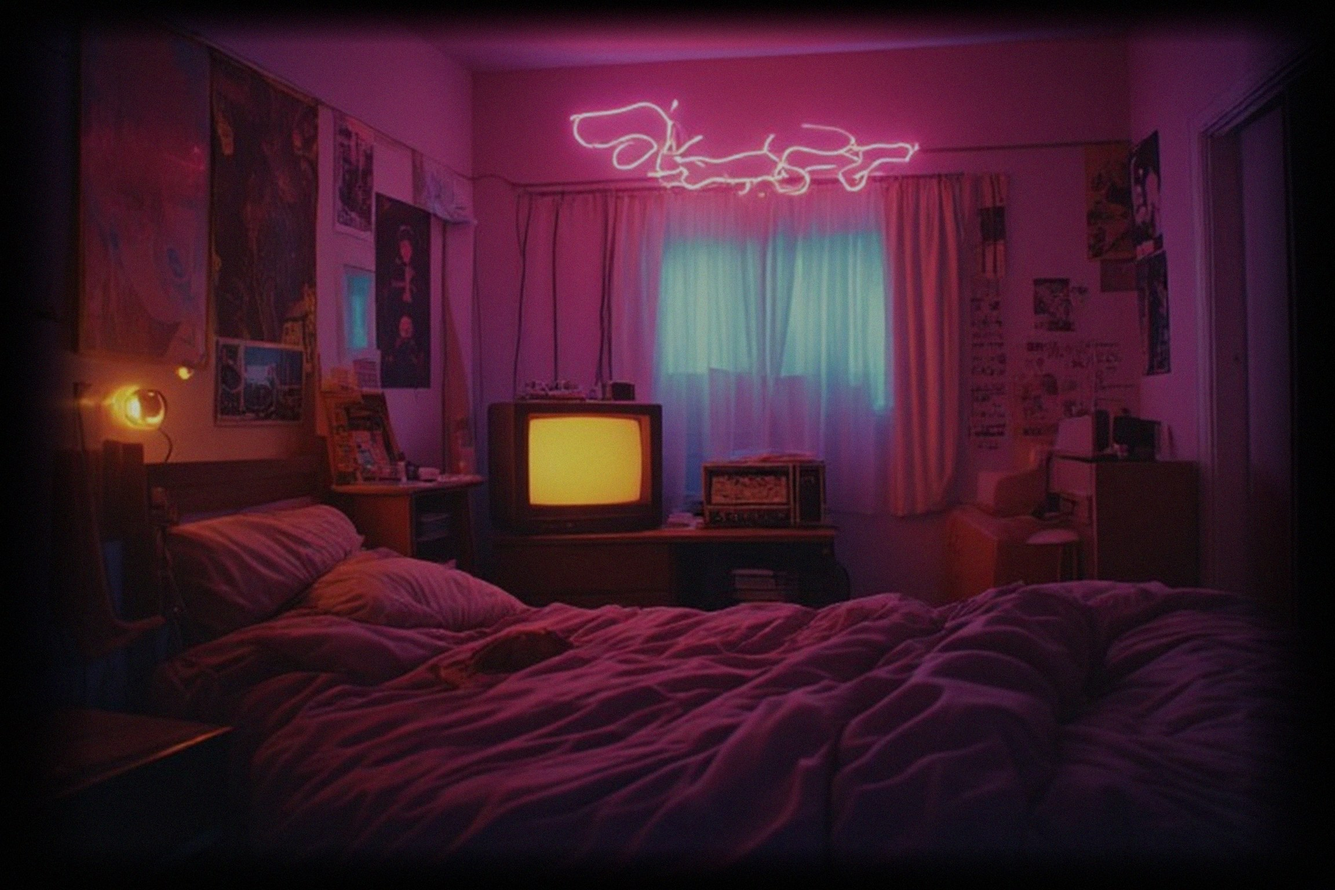
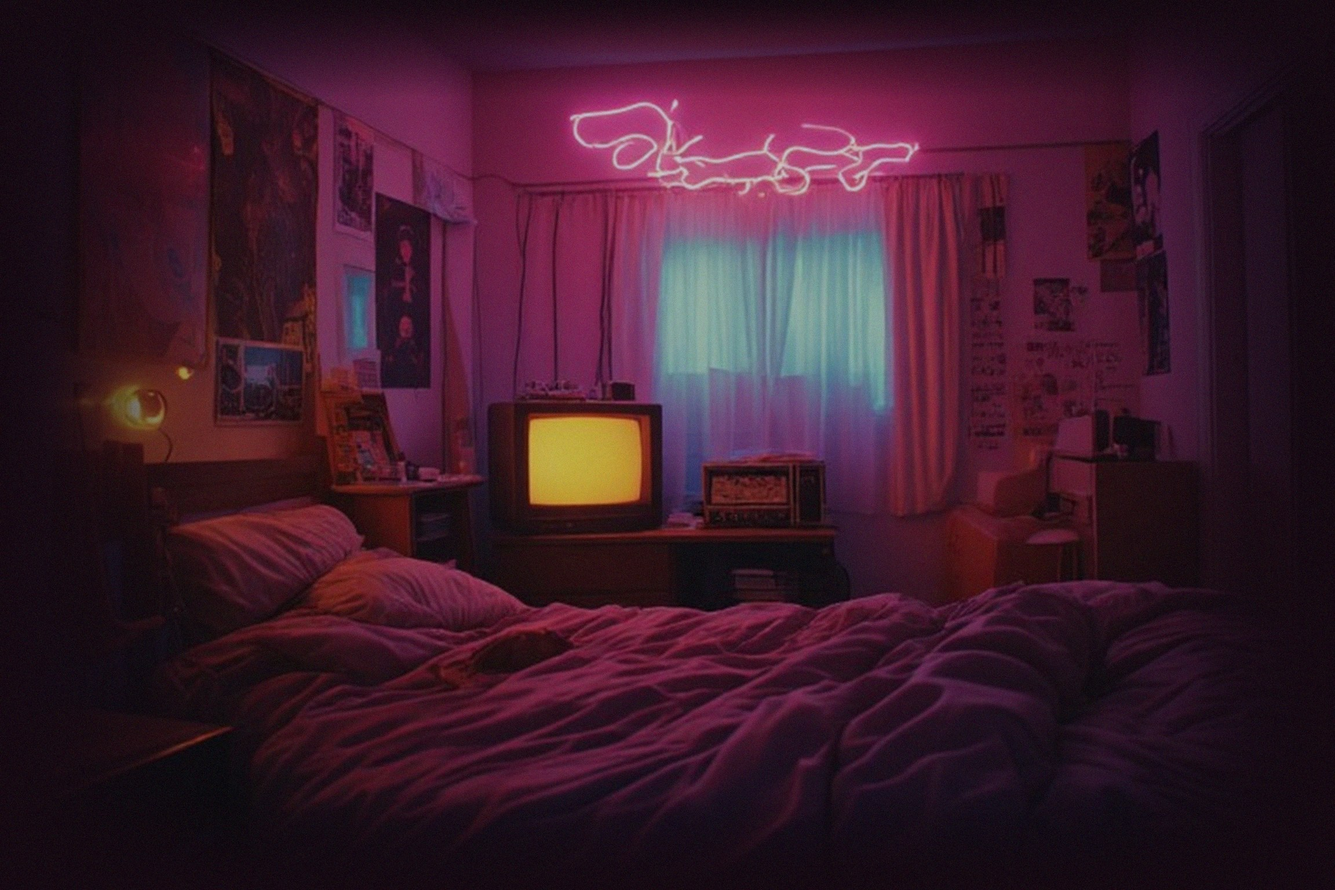
1984 Zimmer: wider curved photo wall, soft vignette into darkness, side walls match photo

Changed region(s): [[0.1875, 0.0312, 0.7812, 0.0938], [0.0312, 0.125, 0.1562, 0.5312], [0.8438, 0.0312, 0.9375, 0.5312]]

diff --git a/v3/test/era1984.html b/v3/test/era1984.html
@@ -8,12 +8,12 @@
 <div id="sub"></div>
 <canvas id="ffgrain" style="position:fixed;inset:0;width:100%;height:100%;pointer-events:none;z-index:4;opacity:.17;mix-blend-mode:overlay"></canvas>
 <a-scene renderer="colorManagement:true; antialias:true; foveationLevel:0.2" webxr="referenceSpaceType:local-floor"
- fog="type:exponential; color:#12061a; density:0.09" background="color:#05020a" cursor="rayOrigin:mouse" raycaster="objects:.clickable">
+ fog="type:exponential; color:#1e0a1c; density:0.08" background="color:#05020a" cursor="rayOrigin:mouse" raycaster="objects:.clickable">
  <a-entity light="type:ambient; color:#5a3070; intensity:0.18"></a-entity>
  <a-entity light="type:point; color:#ff4fb0; intensity:2.2; distance:5; decay:2" position="0.6 2.2 -1.6"></a-entity>
  <a-entity light="type:point; color:#ff9a4c; intensity:1.6; distance:4; decay:2" position="-1.5 1.2 -1.4"></a-entity>
  <a-entity light="type:point; color:#7a5cff; intensity:0.8; distance:5; decay:2" position="0 2.4 1.2"></a-entity>
- <a-entity id="tv" position="0 0.72 -1.85" crt-tv="model:../assets/props/television_02.glb; base:../tv/; channels:ch01.mp4,ch02.mp4,ch03.mp4,ch04.mp4,ch05.mp4,ch06.mp4,ch07.mp4,ch08.mp4,ch09.mp4,ch10.mp4,ch11.mp4,ch12.mp4,ch13.mp4,live:nl/nl_%02d.mp4:8:720; scale:1.45"></a-entity>
+ <a-entity id="tv" position="0.28 0.72 -1.9" crt-tv="model:../assets/props/television_02.glb; base:../tv/; channels:ch01.mp4,ch02.mp4,ch03.mp4,ch04.mp4,ch05.mp4,ch06.mp4,ch07.mp4,ch08.mp4,ch09.mp4,ch10.mp4,ch11.mp4,ch12.mp4,ch13.mp4,live:nl/nl_%02d.mp4:8:720; scale:1.75"></a-entity>
  <a-entity id="rig" room-move>
   <a-camera id="cam" position="0 1.6 0" wasd-controls="acceleration:18"></a-camera>
   <a-entity id="hl" laser-controls="hand:left" raycaster="objects:.clickable; far:6"></a-entity>
@@ -40,25 +40,25 @@ S.addEventListener('loaded',()=>{
  const bm=new T.MeshBasicMaterial({color:0xffffff,fog:false,toneMapped:false,side:T.DoubleSide});
  tex('../assets/era1984/placeholder.jpg',t=>{ if(!bm.map){bm.map=t;bm.needsUpdate=true;} });
  tex(BACKDROP,t=>{bm.map=t;bm.needsUpdate=true;});
- const R=3.6, H=512*0.0063, ang=768*0.0063/R;
+ const PX=0.0085, R=3.6, H=512*PX, ang=768*PX/R;
  const bd=new T.Mesh(new T.CylinderGeometry(R,R,H,48,1,true,Math.PI-ang/2,ang),bm); bd.scale.x=-1;
- bd.position.set(0.34,0.95+(256-268)*0.0063*-1,1.4); G.add(bd);
+ bd.position.set(0.34+54*PX-0.12,1.0+(268-256)*PX,1.4); G.add(bd);
  // dark room shell (sides/back/ceiling/floor) — closes the world, hides edges
- const wallM=std({color:0x2a1430,roughness:0.95}); const floorM=std({color:0x3a1c34,roughness:1});
+ const wallM=std({color:0x3a1a30,roughness:0.95,emissive:0x12060e}); const floorM=std({color:0x3a1c34,roughness:1});
  tex('../assets/tex/kirmes/Fabric/Fabric045_1K-JPG_Color.jpg',t=>{t.wrapS=t.wrapT=T.RepeatWrapping;t.repeat.set(6,6);floorM.map=t;floorM.needsUpdate=true;});
  const box=(w,h,d,m,x,y,z)=>{const o=new T.Mesh(new T.BoxGeometry(w,h,d),m);o.position.set(x,y,z);G.add(o);return o;};
- box(0.1,3,3.6,wallM,-2.15,1.5,0.25); box(0.1,3,3.6,wallM,2.15,1.5,0.25); box(5,3,0.1,wallM,0,1.5,2.05); box(5,0.1,4.4,wallM,0,2.95,-0.1);
- const fl=new T.Mesh(new T.PlaneGeometry(5,4.4),floorM); fl.rotation.x=-Math.PI/2; fl.position.set(0,0,-0.1); G.add(fl);
+ box(0.1,3.4,2.6,wallM,-2.75,1.7,0.75); box(0.1,3.4,2.6,wallM,2.75,1.7,0.75); box(5.6,3.4,0.1,wallM,0,1.7,2.05); box(5.6,0.1,4.6,wallM,0,3.35,-0.2);
+ const fl=new T.Mesh(new T.PlaneGeometry(5.6,4.6),floorM); fl.rotation.x=-Math.PI/2; fl.position.set(0,0,-0.1); G.add(fl);
  // 3D furniture in front of the photo (TV dresser + side shelf)
  const wood=std({color:0x4a2a1c,roughness:0.75}); tex('../assets/tex/kirmes/WoodFloor/WoodFloor051_1K-JPG_Color.jpg',t=>{wood.map=t;wood.needsUpdate=true;});
- box(1.2,0.72,0.6,wood,0,0.36,-1.85); const shelf=box(0.9,0.75,0.4,wood,-1.6,0.375,-0.9); box(0.6,0.9,0.4,wood,1.7,0.45,-1.1);
+ box(1.3,0.72,0.65,wood,0.28,0.36,-1.9); const shelf=box(0.9,0.75,0.4,wood,-1.6,0.375,-0.9); box(0.6,0.9,0.4,wood,1.7,0.45,-1.1);
  // glow around lights (photo neon sign + lamp) — additive soft sprites
  const gc=document.createElement('canvas');gc.width=gc.height=128;const gx=gc.getContext('2d');const gr=gx.createRadialGradient(64,64,0,64,64,64);gr.addColorStop(0,'rgba(255,255,255,0.9)');gr.addColorStop(0.3,'rgba(255,255,255,0.25)');gr.addColorStop(1,'rgba(255,255,255,0)');gx.fillStyle=gr;gx.fillRect(0,0,128,128);
  const gt=new T.CanvasTexture(gc);
  const glow=(x,y,z,s,col,op)=>{const sp=new T.Sprite(new T.SpriteMaterial({map:gt,color:col,transparent:true,opacity:op,depthWrite:false,blending:T.AdditiveBlending,fog:false}));sp.position.set(x,y,z);sp.scale.set(s,s*0.6,1);G.add(sp);return sp;};
- const g1=glow(0.63,2.1,-2.1,1.8,0xff4fd0,0.35), g2=glow(-1.45,1.15,-1.65,0.7,0xffa040,0.45), g3=glow(1.05,1.45,-2.1,1.0,0x60e0ff,0.18);
+ const g1=glow(0.61,2.55,-2.0,2.2,0xff4fd0,0.35), g2=glow(-1.9,1.3,-1.25,0.8,0xffa040,0.45), g3=glow(0.95,1.58,-2.0,1.3,0x60e0ff,0.18);
  // parody posters (subtle, side walls)
- [['p1',-2.09,1.65,-0.9,1],['p2',-2.09,1.6,0.6,1],['p3',2.09,1.7,-0.4,-1],['p4',2.09,1.6,1.0,-1]].forEach(([n,x,y,z,s])=>{const m=std({color:0x9a8090,roughness:0.85});tex('../assets/era1984/'+n+'.jpg',t=>{m.map=t;m.needsUpdate=true;});const p=new T.Mesh(new T.PlaneGeometry(0.5,0.75),m);p.position.set(x,y,z);p.rotation.y=s*Math.PI/2;G.add(p);});
+ [['p1',-2.69,1.65,0.2,1],['p2',-2.69,1.6,1.4,1],['p3',2.69,1.7,0.4,-1],['p4',2.69,1.6,1.5,-1]].forEach(([n,x,y,z,s])=>{const m=std({color:0x9a8090,roughness:0.85});tex('../assets/era1984/'+n+'.jpg',t=>{m.map=t;m.needsUpdate=true;});const p=new T.Mesh(new T.PlaneGeometry(0.5,0.75),m);p.position.set(x,y,z);p.rotation.y=s*Math.PI/2;G.add(p);});
  // ---------- grabbables: VHS (c1-c3), book (c4), cereal (c5) ----------
  const items=[];
  function item(n,w,h,d,x,y,z,ry,spine){ const fm=std({color:0xffffff,roughness:0.6}); tex('../assets/era1984/'+n+'.jpg',t=>{fm.map=t;fm.needsUpdate=true;});
@@ -79,7 +79,7 @@ S.addEventListener('loaded',()=>{
  S.addEventListener('click',e=>{ if(held && e.target===S) drop(); });
  ['hl','hr'].forEach(id=>document.getElementById(id).addEventListener('triggerdown',()=>{ const rc=document.getElementById(id).components.raycaster; if(held && (!rc||!rc.intersectedEls.length)) drop(); }));
  // surfaces for falling items
- const surf=[[-1.6,-0.9,0.9,0.4,0.75],[0,-1.85,1.2,0.6,0.72],[1.7,-1.1,0.6,0.4,0.9]];
+ const surf=[[-1.6,-0.9,0.9,0.4,0.75],[0.28,-1.9,1.3,0.65,0.72],[1.7,-1.1,0.6,0.4,0.9]];
  AFRAME.registerComponent('era-tick',{tick(t,dt){ const d=Math.min(dt,50)/1000; items.forEach(it=>{ if(!it.falling) return; const o=it.el.object3D; it.vy-=9.8*d; o.position.y+=it.vy*d;
    let fy=0; surf.forEach(([x,z,w,dd,h])=>{ if(Math.abs(o.position.x-x)<w/2&&Math.abs(o.position.z-z)<dd/2) fy=Math.max(fy,h); });
    if(o.position.y<fy+it.h/2){ o.position.y=fy+it.h/2; it.vy=0; it.falling=false; } });
